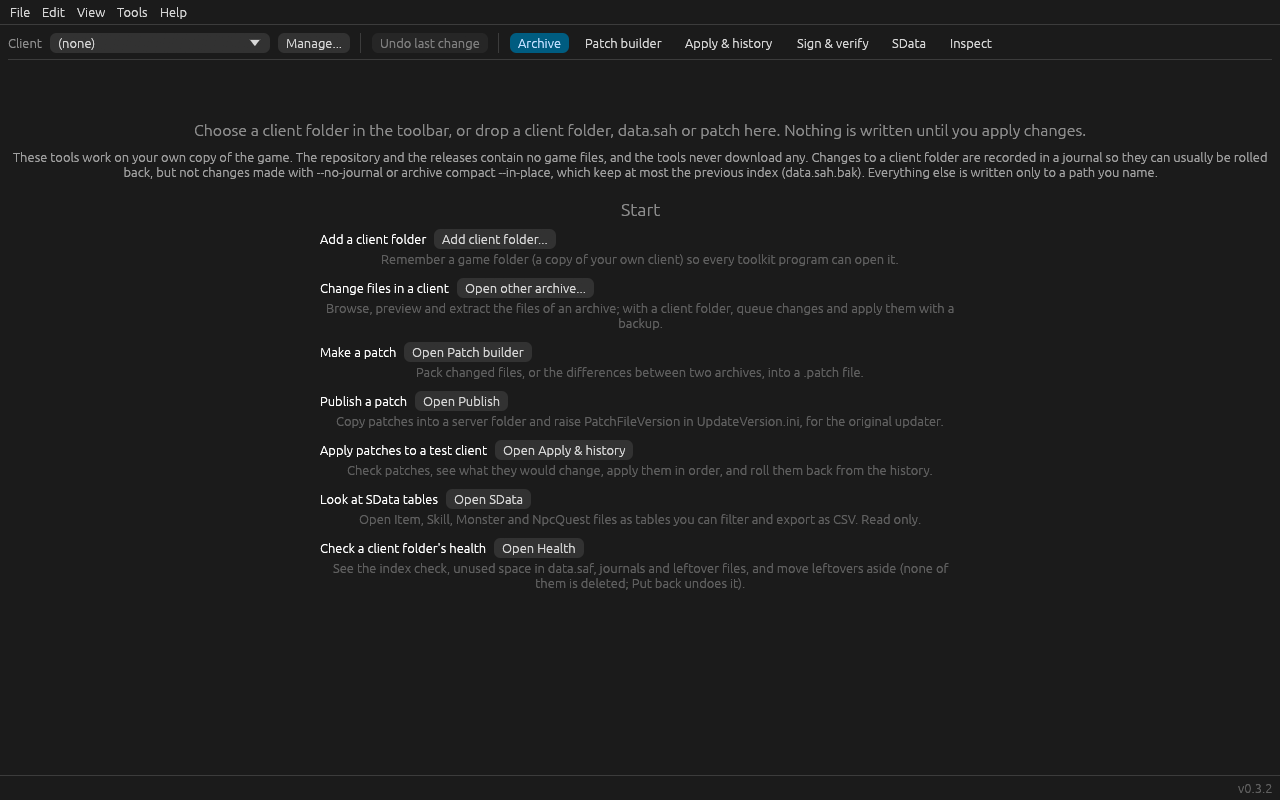
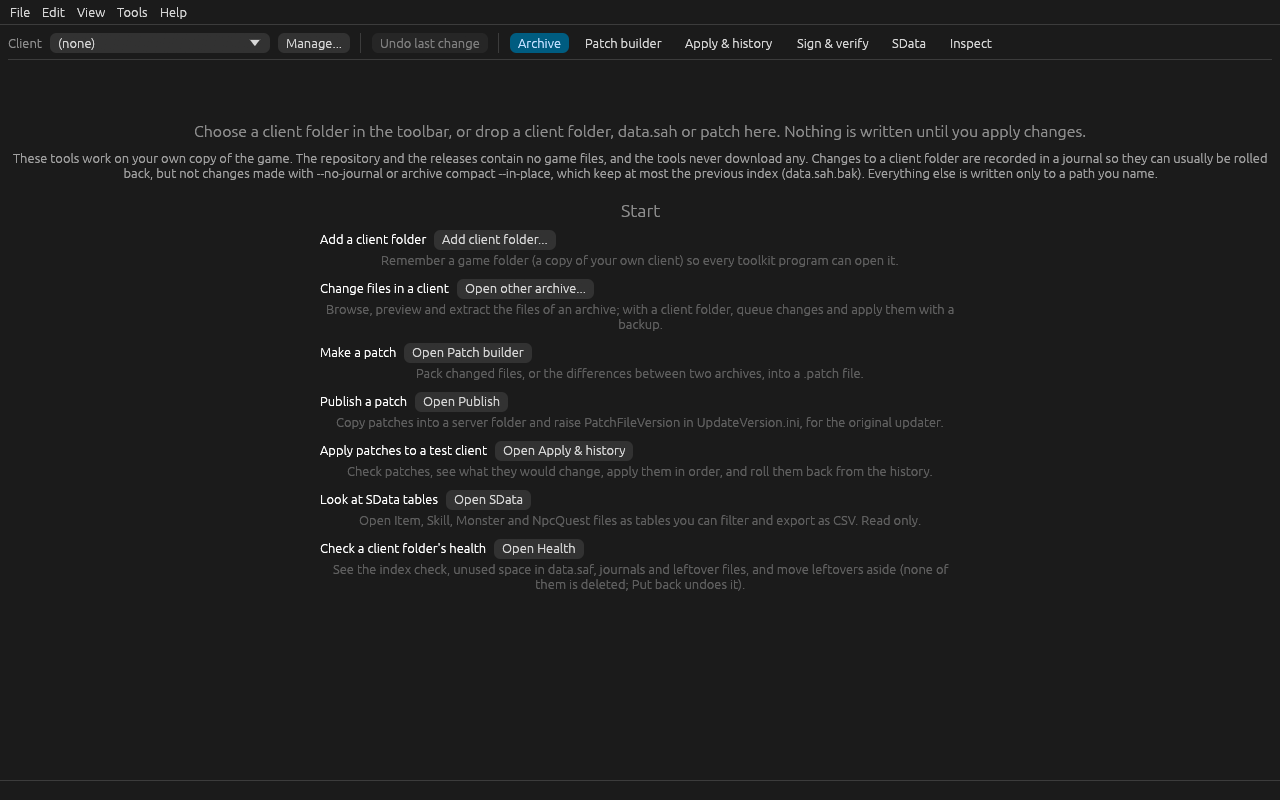
T9 W9fix: no real time or version in screenshots, --shot with --data-dir, flag parsing, header alignment
The demo change shows a fixed 2010-01-01 time and the status bar shows no version under --shot; all nine PNGs retaken. A --shot run does not reopen the last client and refuses a saved Demo client that is another folder. Manage client folders shows names under --shot. --shot, --size and --scene no longer take a following flag as value. Exit code wording says 2 for a bad flag. The Contents header of the patch builder lines up with its rows.

diff --git a/crates/shaiya-ui/src/args.rs b/crates/shaiya-ui/src/args.rs
@@ -19,9 +19,9 @@ pub struct ShellOptions {
     pub data_dir: Option<PathBuf>,
     /// Nothing is read or written (used by tests).
     pub no_settings: bool,
-    /// Open the real window, render 5 frames, write `ok <adapter> <backend>` (or the error) to the report file if given, exit 0 or 1.
+    /// Open the real window, render 5 frames, write `ok <adapter> <backend>` (or the error) to the report file if given, exit 0 or 1 (2 for a bad flag).
     pub smoke: Option<Option<PathBuf>>,
-    /// Open the real window, show a scene of the tool, save a PNG of the window, exit 0 or 1. Implies `no_settings` unless `data_dir` is given.
+    /// Open the real window, show a scene of the tool, save a PNG of the window, exit 0, or 1 with a reason (2 for a bad flag). Implies `no_settings` unless `data_dir` is given.
     pub shot: Option<ShotOptions>,
     /// Load a CJK system font (off in the headless tests).
     pub load_fonts: bool,
@@ -34,7 +34,7 @@ pub enum Parsed {
     Version,
 }
 
-pub const USAGE: &str = "usage: <program> [FILES...] [--data-dir DIR] [--no-settings] [--smoke [REPORT_FILE]] [--shot OUT.png [--size WxH] [--scene NAME]]\n\n  FILES              open these files\n  --data-dir DIR     keep settings, log, recovery and backups in DIR\n  --no-settings      read and write no settings at all\n  --smoke [FILE]     open the window, render 5 frames, write \"ok <adapter> <backend>\" (or the error) to FILE, and exit 0 or 1\n  --shot OUT.png     open the window, show a scene (default start), save a PNG of the window to OUT.png, and exit 0 or 1; no settings are used unless --data-dir is given\n  --size WxH         the window size of --shot (default 1280x800)\n  --scene NAME       the scene of --shot (each program documents its scenes)\n  -h, --help         show this help\n  -V, --version      show the version";
+pub const USAGE: &str = "usage: <program> [FILES...] [--data-dir DIR] [--no-settings] [--smoke [REPORT_FILE]] [--shot OUT.png [--size WxH] [--scene NAME]]\n\n  FILES              open these files\n  --data-dir DIR     keep settings, log, recovery and backups in DIR\n  --no-settings      read and write no settings at all\n  --smoke [FILE]     open the window, render 5 frames, write \"ok <adapter> <backend>\" (or the error) to FILE, and exit 0 or 1 (2 for a bad flag)\n  --shot OUT.png     open the window, show a scene (default start), save a PNG of the window to OUT.png, and exit 0, or 1 with a reason (2 for a bad flag); no settings are used unless --data-dir is given\n  --size WxH         the window size of --shot (default 1280x800)\n  --scene NAME       the scene of --shot (each program documents its scenes)\n  -h, --help         show this help\n  -V, --version      show the version";
 
 /// The window size of `--shot` when `--size` is not given.
 pub const SHOT_DEFAULT_SIZE: [u32; 2] = [1280, 800];
@@ -64,9 +64,9 @@ pub fn parse<I: IntoIterator<Item = String>>(args: I) -> Result<Parsed, String> 
                 let report = it.next_if(|n| !n.starts_with("--")).map(PathBuf::from);
                 o.smoke = Some(report);
             }
-            "--shot" => shot_out = Some(PathBuf::from(it.next().ok_or("--shot needs a file name")?)),
-            "--size" => shot_size = Some(parse_size(&it.next().ok_or("--size needs WxH")?)?),
-            "--scene" => shot_scene = Some(it.next().ok_or("--scene needs a name")?),
+            "--shot" => shot_out = Some(PathBuf::from(it.next_if(|n| !n.starts_with("--")).ok_or("--shot needs a file name")?)),
+            "--size" => shot_size = Some(parse_size(&it.next_if(|n| !n.starts_with("--")).ok_or("--size needs WxH")?)?),
+            "--scene" => shot_scene = Some(it.next_if(|n| !n.starts_with("--")).ok_or("--scene needs a name")?),
             "--" => o.files.extend(it.by_ref().map(PathBuf::from)),
             f if f.starts_with("--") => return Err(format!("unknown option {f}")),
             f => o.files.push(PathBuf::from(f)),
@@ -136,6 +136,10 @@ mod tests {
         assert!(p(&["--shot"]).is_err());
         assert!(p(&["--shot", "a.png", "--size"]).is_err());
         assert!(p(&["--shot", "a.png", "--scene"]).is_err());
+        // a following flag is not the value
+        assert!(p(&["--shot", "--no-settings"]).is_err());
+        assert!(p(&["--shot", "a.png", "--size", "--scene", "x"]).is_err());
+        assert!(p(&["--shot", "a.png", "--scene", "--no-settings"]).is_err());
         for bad in ["1280", "axb", "100x800", "1280x5000", "1280x", "-1x800"] {
             assert!(p(&["--shot", "a.png", "--size", bad]).is_err(), "{bad}");
         }

diff --git a/crates/shaiya-toolkit/tests/shots.rs b/crates/shaiya-toolkit/tests/shots.rs
@@ -44,6 +44,8 @@ fn assert_no_path(s: &Shot, name: &str) {
     }
     let leaf = s.dir.path().file_name().unwrap().to_string_lossy().to_string();
     assert!(!t.contains(&leaf), "scene {name} shows the name of the real folder {leaf}:\n{t}");
+    let version = format!("v{}", env!("CARGO_PKG_VERSION"));
+    assert!(!t.contains(&version), "scene {name} shows the version {version}:\n{t}");
 }
 
 fn wait_preview(s: &mut Shot) {
@@ -91,6 +93,9 @@ fn the_apply_history_scene_shows_one_real_journal() {
     assert_eq!(s.h.app.app.apply.history()[0].0.label, "Demo: add a changelog");
     let t = s.h.text();
     assert!(t.contains("Demo: add a changelog"), "{t}");
+    // the history shows the fixed demo time, never the real one
+    assert_eq!(s.h.app.app.apply.history()[0].0.created_utc, "2010-01-01T00:00:00Z");
+    assert!(t.contains("2010-01-01 00:00:00 UTC"), "{t}");
     assert_no_path(&s, "apply-history");
 }
 
@@ -200,4 +205,56 @@ fn the_picker_shows_a_saved_client_by_name_under_shot_and_by_path_otherwise() {
     assert_eq!(shaiya_toolkit::clients::picker_label(&c, "Demo client", true), "Demo client");
     assert_eq!(shaiya_toolkit::clients::picker_label(&c, "Demo client", false), "Demo client - not found");
     assert_eq!(shaiya_toolkit::clients::picker_label(&c, "/somewhere/else", true), "Demo client  (/somewhere/else)");
+}
+
+/// A data folder that already holds the saved clients `saved` (name, folder), the way an earlier normal run leaves it.
+fn data_dir_with(tag: &str, saved: &[(&str, &std::path::Path)]) -> TempDir {
+    let data = TempDir::new(tag);
+    let mut h = Harness::<ToolkitApp>::new(ShellOptions { data_dir: Some(data.path().to_path_buf()), ..Default::default() });
+    h.frames(2);
+    for (name, dir) in saved {
+        let a = &mut h.app;
+        let mut cx = shaiya_ui::Cx { shell: &mut a.shell, settings: &mut a.tool_settings };
+        a.app.add_client(name, dir, true, &mut cx).unwrap();
+    }
+    h.frames(2);
+    data
+}
+
+fn shot_with_data(data: &std::path::Path, dir: &std::path::Path, scene: &str) -> Harness<ToolkitApp> {
+    let mut o = options(dir, scene);
+    o.no_settings = false;
+    o.data_dir = Some(data.to_path_buf());
+    Harness::<ToolkitApp>::new(o)
+}
+
+#[test]
+fn a_saved_demo_client_that_is_another_folder_is_refused_under_shot() {
+    let demo = TempDir::new("w9fix-demo");
+    demo_client(demo.path());
+    let elsewhere = TempDir::new("w9fix-elsewhere");
+    shaiya_testkit::SahBuilder::new(0).file(b"a.txt", b"x").write_to(elsewhere.path());
+    let before = std::fs::read(elsewhere.path().join("data.sah")).unwrap();
+    let data = data_dir_with("w9fix-data-a", &[(CLIENT_NAME, elsewhere.path())]);
+    let mut h = shot_with_data(data.path(), demo.path(), "apply-history");
+    let e = h.wait_scene(WAIT).unwrap_err();
+    assert!(e.contains("Demo client") && e.contains("not the demo folder"), "{e}");
+    assert!(!h.app.app.archive.is_open(), "the other folder was not opened");
+    assert_eq!(std::fs::read(elsewhere.path().join("data.sah")).unwrap(), before);
+    assert!(!elsewhere.path().join("shaiya-toolkit-backups").exists());
+}
+
+#[test]
+fn a_shot_run_with_a_data_dir_does_not_reopen_the_last_client() {
+    let demo = TempDir::new("w9fix-demo2");
+    demo_client(demo.path());
+    let other = TempDir::new("w9fix-other2");
+    shaiya_testkit::SahBuilder::new(0).file(b"a.txt", b"x").write_to(other.path());
+    // the last client is "Other"; the saved "Demo client" is this very demo folder
+    let data = data_dir_with("w9fix-data-b", &[(CLIENT_NAME, demo.path()), ("Other", other.path())]);
+    let mut h = shot_with_data(data.path(), demo.path(), "start");
+    h.wait_scene(WAIT).unwrap();
+    h.frames(3);
+    assert!(!h.app.app.archive.is_open(), "the last client is not reopened under --shot");
+    assert!(h.app.shell.hide_paths());
 }

diff --git a/crates/shaiya-toolkit/src/shot.rs b/crates/shaiya-toolkit/src/shot.rs
@@ -39,7 +39,24 @@ fn make_change(dir: &Path) -> Result<(), String> {
         ..EditPlan::default()
     };
     let opts = InPlaceOptions { journal: JournalMode::In(dir.join(journal::DEFAULT_DIR)), legacy_bak: false, check_in_use: false };
-    edit::apply_in_place(dir, &plan, &opts, &Job::silent()).map(|_| ()).map_err(|e| format!("could not make the demo change: {e}"))
+    edit::apply_in_place(dir, &plan, &opts, &Job::silent()).map_err(|e| format!("could not make the demo change: {e}"))?;
+    // the journal is stamped with the real time; a picture must not show when it was taken, so the demo folder's own journal gets a fixed time
+    let root = dir.join(journal::DEFAULT_DIR);
+    let list = journal::list(dir, &root).map_err(|e| format!("could not read the demo journal: {e}"))?;
+    for (mut j, _) in list {
+        j.created_utc = DEMO_TIME.into();
+        j.write().map_err(|e| format!("could not date the demo journal: {e}"))?;
+    }
+    Ok(())
+}
+
+/// The time the demo change shows in the history (the same day as the demo archive's own files; no real time reaches a picture).
+const DEMO_TIME: &str = "2010-01-01T00:00:00Z";
+
+/// Whether two folders are the same place (compared as absolute paths, resolved when they exist).
+fn same_folder(a: &Path, b: &Path) -> bool {
+    let norm = |p: &Path| std::fs::canonicalize(p).or_else(|_| std::path::absolute(p)).unwrap_or_else(|_| p.to_path_buf());
+    norm(a) == norm(b)
 }
 
 impl ToolkitApp {
@@ -53,8 +70,13 @@ impl ToolkitApp {
         if !dir.join(MARKER).is_file() {
             return Err(format!("that folder is not a demo client (it has no {MARKER}); make one with cargo xtask demo-client DIR"));
         }
-        let saved = cx.shell.shared().clients.iter().any(|c| c.name == CLIENT_NAME);
-        if !saved {
+        let saved = cx.shell.shared().clients.iter().find(|c| c.name == CLIENT_NAME).map(|c| PathBuf::from(&c.path));
+        if let Some(path) = &saved {
+            // a saved client of that name (a --data-dir run) must be this very folder: a scene never opens or changes any other
+            if !same_folder(path, &dir) {
+                return Err(format!("the saved client {CLIENT_NAME:?} is not the demo folder given; use a --data-dir without it, or none"));
+            }
+        } else {
             self.add_client(CLIENT_NAME, &dir, false, cx).map_err(|e| e.to_string())?;
         }
         match scene {

diff --git a/crates/shaiya-toolkit/src/clients.rs b/crates/shaiya-toolkit/src/clients.rs
@@ -325,6 +325,7 @@ impl ClientsUi {
             let mut edit: Option<(String, EditKind)> = None;
             let mut swap_for: Option<(String, PathBuf)> = None;
             let clients = cx.shell.shared().clients.clone();
+            let shown: Vec<String> = clients.iter().map(|c| cx.shell.folder_text(&c.name, Path::new(&c.path))).collect();
             let queued = self.queued.clone();
             let queued_of = move |n: &str| queued.iter().find(|(q, _)| q.eq_ignore_ascii_case(n)).map(|(_, c)| *c).unwrap_or(0);
             egui::Window::new("Manage client folders").open(&mut open).default_width(720.0).show(ctx, |ui| {
@@ -337,11 +338,11 @@ impl ClientsUi {
                     ui.label(RichText::new("Note").strong());
                     ui.label("");
                     ui.end_row();
-                    for c in &clients {
+                    for (c, shown_path) in clients.iter().zip(&shown) {
                         let st = self.statuses.iter().find(|(n, _)| n == &c.name).map(|(_, s)| s.clone()).unwrap_or_default();
                         ui.label(&c.name);
                         ui.vertical(|ui| {
-                            ui.label(&c.path);
+                            ui.label(shown_path);
                             if st.found {
                                 let ini = match (st.check_version, st.current_version) {
                                     (Some(a), Some(b)) => format!(", Version.ini CheckVersion {a}, CurrentVersion {b}"),

diff --git a/crates/shaiya-toolkit/src/patch_builder.rs b/crates/shaiya-toolkit/src/patch_builder.rs
@@ -773,11 +773,12 @@ impl PatchBuilder {
                 let left = self.rows.iter().filter(|r| r.skipped).count();
                 let head = if left == 0 { format!("Contents ({})", self.rows.len()) } else { format!("Contents ({}, {left} left out)", self.rows.len() - left) };
                 ui.label(RichText::new(head).strong());
-                egui::Grid::new("toolkit-patch-rows-head").show(ui, |ui| {
-                    for h in ["Kind", "Path", "Size", "Packed", "Effect on the client"] {
-                        ui.label(RichText::new(h).strong());
+                // the same widths as the rows below, so each heading stands over its column
+                ui.horizontal(|ui| {
+                    for (h, w) in [("Kind", 60.0), ("Path", 340.0), ("Size", 80.0), ("Packed", 90.0)] {
+                        ui.add_sized([w, 16.0], egui::Label::new(RichText::new(h).strong()));
                     }
-                    ui.end_row();
+                    ui.label(RichText::new("Effect on the client").strong());
                 });
                 let n = self.rows.len();
                 let findings = &self.findings;

diff --git a/crates/shaiya-ui/src/shell.rs b/crates/shaiya-ui/src/shell.rs
@@ -1183,7 +1183,10 @@ impl<A: ToolApp> ShellApp<A> {
                 ui.label(text);
             }
             ui.with_layout(egui::Layout::right_to_left(egui::Align::Center), |ui| {
-                ui.label(RichText::new(format!("v{}", self.shell.info.version)).weak());
+                // a screenshot carries no version string (it would be stale at the next release)
+                if !self.shell.hide_paths {
+                    ui.label(RichText::new(format!("v{}", self.shell.info.version)).weak());
+                }
                 if !running.is_empty() {
                     let pct = running.iter().find_map(|v| v.fraction()).map(|f| format!(" {}%", (f * 100.0) as u32)).unwrap_or_default();
                     let text = format!("{} task{}{pct}  \u{b7}", running.len(), if running.len() == 1 { "" } else { "s" });

diff --git a/crates/shaiya-toolkit/src/lib.rs b/crates/shaiya-toolkit/src/lib.rs
@@ -614,7 +614,8 @@ impl ToolApp for ToolkitApp {
         };
         app.archive.show_shadowed = cx.settings.show_shadowed;
         // the last used client opens at start, as a task; a client whose folder is gone is not opened
-        if let Some(name) = cx.settings.last_client.clone() {
+        // (a `--shot` run never does: its scene decides what opens)
+        if let Some(name) = cx.settings.last_client.clone().filter(|_| !cx.shell.hide_paths()) {
             app.select_client(&name, cx);
         }
         app

diff --git a/docs/tools/toolkit.md b/docs/tools/toolkit.md
@@ -7,7 +7,7 @@ shaiya-toolkit [FILES...] [--data-dir DIR] [--no-settings] [--smoke [REPORT_FILE
 shaiya-toolkit DEMO_DIR --shot OUT.png [--size WxH] [--scene NAME]
 ```
 
-`--data-dir` keeps settings and the saved client folders in `DIR`; `--no-settings` writes no settings; `--smoke` opens the real window, renders five frames, writes `ok <adapter> <backend>` (or the error) to the report file and exits with 0 or 1, a quick check that the graphics stack works. `--shot` is for the screenshots of these docs and is described under [Screenshots](#screenshots). Files named on the command line are handled like files dropped on the window. Only one copy of Shaiya Toolkit should change a client folder at a time, and not while the game is running from it.
+`--data-dir` keeps settings and the saved client folders in `DIR`; `--no-settings` writes no settings; `--smoke` opens the real window, renders five frames, writes `ok <adapter> <backend>` (or the error) to the report file and exits with 0 or 1 (2 for a bad flag), a quick check that the graphics stack works. `--shot` is for the screenshots of these docs and is described under [Screenshots](#screenshots). Files named on the command line are handled like files dropped on the window. Only one copy of Shaiya Toolkit should change a client folder at a time, and not while the game is running from it.
 
 ## Client folders
 
@@ -151,7 +151,7 @@ Settings and logs: see [install.md](../install.md#portable-mode-and-where-settin
 
 ## Screenshots
 
-`shaiya-toolkit DEMO_DIR --shot OUT.png [--size WxH] [--scene NAME]` opens the real window on a synthetic demo client, waits until the background work is idle, saves a PNG of the window to `OUT.png` and exits with 0, or with 1 and a reason on standard error. `--size` is the window size in points (default 1280x800; the PNG has the display's pixels). `--shot` reads and writes no settings unless `--data-dir` is given, and a saved client folder is then shown by its name, never by its path. `DEMO_DIR` is made by `cargo xtask demo-client DIR`: a folder of made-up files only, marked by `shaiya-demo-client.txt`; a scene refuses any folder without that marker, because `apply-history` makes one real change in the folder it is given. Scenes: `start`, `archive`, `patch-builder`, `apply-history`, `sdata-table`, `health`, `map-preview`, `model-preview`, `inspect`. How the pictures of these docs are retaken: [Editing these docs](../dev/docs-site.md#screenshots).
+`shaiya-toolkit DEMO_DIR --shot OUT.png [--size WxH] [--scene NAME]` opens the real window on a synthetic demo client, waits until the background work is idle, saves a PNG of the window to `OUT.png` and exits with 0, or with 1 and a reason on standard error (2 for a bad flag). `--size` is the window size in points (default 1280x800; the PNG has the display's pixels). `--shot` reads and writes no settings unless `--data-dir` is given, and a saved client folder is then shown by its name, never by its path (also in the Manage client folders window). The status bar shows no version and the demo change of `apply-history` is dated 2010-01-01, so a picture does not go stale or show when it was taken; with `--data-dir`, `--shot` refuses a saved `Demo client` that is not the folder given and does not reopen the last client. `DEMO_DIR` is made by `cargo xtask demo-client DIR`: a folder of made-up files only, marked by `shaiya-demo-client.txt`; a scene refuses any folder without that marker, because `apply-history` makes one real change in the folder it is given. Scenes: `start`, `archive`, `patch-builder`, `apply-history`, `sdata-table`, `health`, `map-preview`, `model-preview`, `inspect`. How the pictures of these docs are retaken: [Editing these docs](../dev/docs-site.md#screenshots).
 
 ## Left out on purpose
 

diff --git a/CHANGELOG.md b/CHANGELOG.md
@@ -10,7 +10,7 @@ All notable changes are listed here, newest first. The format follows [Keep a Ch
 - Compare takes any two saved clients or archive files: **OLD (left)** and **NEW (right)** pickers (the left side starts as the open client, **Swap sides**), and **Make patch from differences** builds the patch that turns OLD into NEW. A comparison with no differences says "Nothing differs" and the patch button stays disabled.
 - Patch builder: when "Leave out files that are already the same" leaves out every file (for example when the selected client is the NEW side of the differences) it now says "Nothing differs: all N files are already the same in NAME ..." as a warning and as the reason Build is disabled, instead of only showing an empty patch.
 - **Apply & history > Apply to several test clients...**: pick patches and saved clients; each client gets its own confirmation (Changes, Writes, Undo, Game), then the patches are applied to it with recover, the game-running check and its own journals, one client after the other. The run stops at the first failure and lists the clients that were changed (with their journals) and the ones that were not touched.
-- New `--shot OUT.png [--size WxH] [--scene NAME]` flag: it opens the real window, sets up a scene, waits until the background work is idle, saves a PNG of the window and exits with 0, or with 1 and a reason on standard error. It reads and writes no settings unless `--data-dir` is given, and shows a saved client folder by its name instead of its path. The scenes (`start`, `archive`, `patch-builder`, `apply-history`, `sdata-table`, `health`, `map-preview`, `model-preview`, `inspect`) work on a synthetic demo client made by `cargo xtask demo-client DIR`; a scene refuses a folder without the demo marker `shaiya-demo-client.txt`, because `apply-history` makes one real change in it.
+- New `--shot OUT.png [--size WxH] [--scene NAME]` flag: it opens the real window, sets up a scene, waits until the background work is idle, saves a PNG of the window and exits with 0, or with 1 and a reason on standard error (2 for a bad flag). It reads and writes no settings unless `--data-dir` is given, and shows a saved client folder by its name instead of its path (also in Manage client folders), leaves the version out of the status bar and dates the demo change 2010-01-01. The scenes (`start`, `archive`, `patch-builder`, `apply-history`, `sdata-table`, `health`, `map-preview`, `model-preview`, `inspect`) work on a synthetic demo client made by `cargo xtask demo-client DIR`; a scene refuses a folder without the demo marker `shaiya-demo-client.txt`, because `apply-history` makes one real change in it.
 
 ### Libraries
 

diff --git a/docs/dev/docs-site.md b/docs/dev/docs-site.md
@@ -24,7 +24,7 @@ cargo xtask demo-client SCRATCH/demo-archive
 shaiya-toolkit SCRATCH/demo-archive --shot docs/assets/screenshots/toolkit-archive.png --scene archive
 ```
 
-Make a new demo folder for each scene (`demo-client` refuses a folder that is not empty): the `apply-history` scene makes one real change in the folder, so the next scene would show it. Scenes: `start`, `archive`, `patch-builder`, `apply-history`, `sdata-table`, `health`, `map-preview`, `model-preview`, `inspect`; the default window is 1280x800 points, `--size WxH` changes it. The run needs a desktop session with a graphics adapter (it opens the real window); it exits with 0 after writing the file, or with 1 and a reason, and gives up after two minutes. Under `--shot` a saved client is shown by its name, never by its path.
+Make a new demo folder for each scene (`demo-client` refuses a folder that is not empty): the `apply-history` scene makes one real change in the folder, so the next scene would show it. Scenes: `start`, `archive`, `patch-builder`, `apply-history`, `sdata-table`, `health`, `map-preview`, `model-preview`, `inspect`; the default window is 1280x800 points, `--size WxH` changes it. The run needs a desktop session with a graphics adapter (it opens the real window); it exits with 0 after writing the file, or with 1 and a reason (2 for a bad flag), and gives up after two minutes. Under `--shot` a saved client is shown by its name, never by its path.
 
 Then open every PNG you took (in an image viewer, not only by its file name) and check it: no path, no user or host name, no game art, nothing from your own disk. Delete the demo folders afterwards. The CI Windows job also runs `--shot` once beside the smoke step, without blocking, to show that it still works.
 
